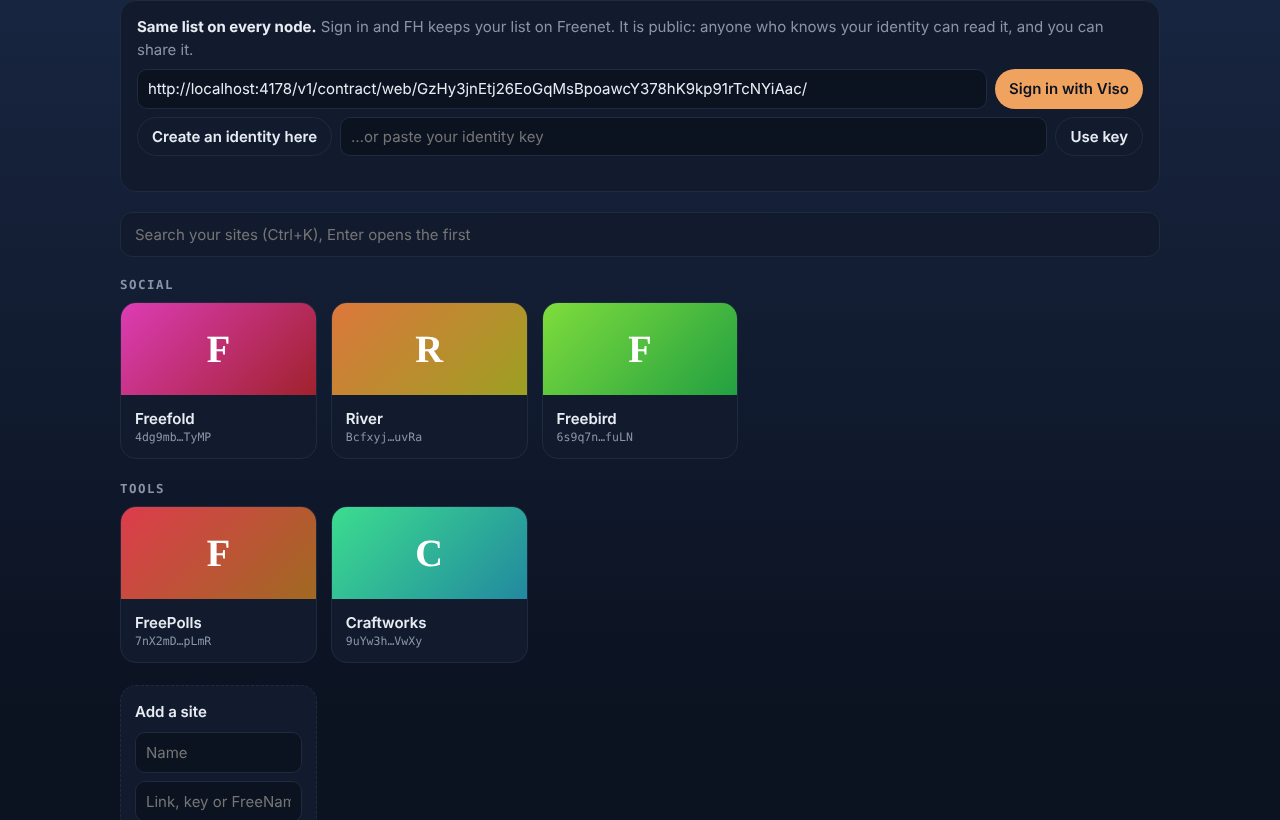
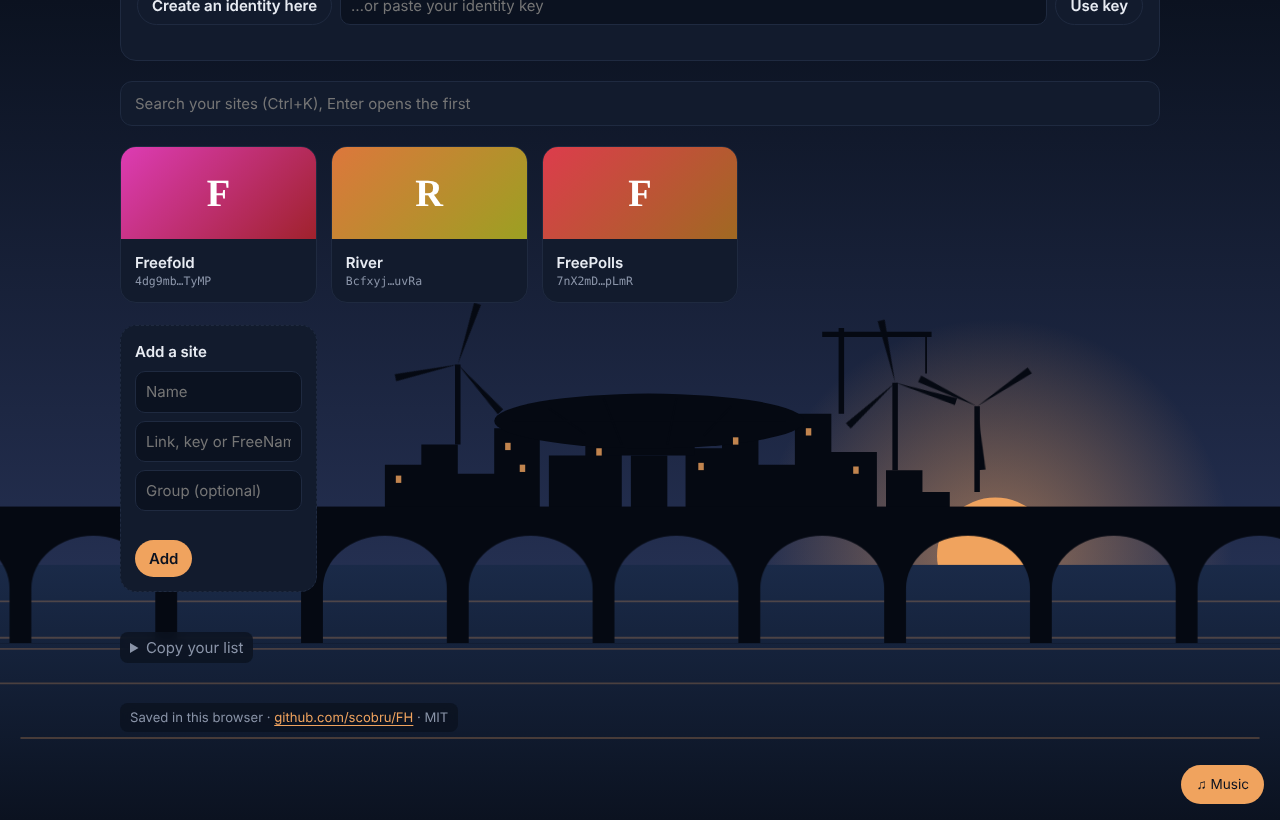
Add an original bridge-town scene and ambient music
Background: an SVG drawn for FH (railway bridge over the sea, a town of
recycled parts, a great solar panel, windmills that turn unless reduced
motion is set), themed for light and dark. Loose text over it gets a
frosted backing.
Music: an original ambient loop synthesized with WebAudio (arpeggio,
pad, bass, echo), off until the Music button is pressed. No artwork or
music from the game is included.

Claude-Session: https://claude.ai/code/session_01GeVad92M4SuANuLQjHu8xK

diff --git a/index.html b/index.html
@@ -6,7 +6,55 @@
   <title>FH</title>
 </head>
 <body>
+  <!-- An original scene in the spirit of the town on the bridge: a railway bridge across the sea, a town of
+       recycled parts on it, a great solar panel and windmills. Drawn for FH, not taken from the game. -->
+  <svg class="scene" viewBox="0 0 1600 900" preserveAspectRatio="xMidYMax slice" aria-hidden="true">
+    <defs>
+      <linearGradient id="sky" x1="0" y1="0" x2="0" y2="1"><stop class="sky1" offset="0" /><stop class="sky2" offset="1" /></linearGradient>
+      <linearGradient id="sea" x1="0" y1="0" x2="0" y2="1"><stop class="sea1" offset="0" /><stop class="sea2" offset="1" /></linearGradient>
+      <radialGradient id="glow"><stop class="sun" offset="0" stop-opacity=".55" /><stop class="sun" offset="1" stop-opacity="0" /></radialGradient>
+      <pattern id="arches" width="160" height="130" patternUnits="userSpaceOnUse" x="-40" y="576">
+        <path class="ink" d="M0 0H160V130H148V70A68 58 0 0 0 12 70V130H0Z" />
+      </pattern>
+      <g id="blades"><circle r="70" fill="none" /><path d="M0 0L-4-70L4-70Z" /><path d="M0 0L-4-70L4-70Z" transform="rotate(120)" /><path d="M0 0L-4-70L4-70Z" transform="rotate(240)" /></g>
+    </defs>
+    <rect width="1600" height="900" fill="url(#sky)" />
+    <circle cx="1190" cy="610" r="260" fill="url(#glow)" />
+    <circle class="sun" cx="1190" cy="610" r="64" />
+    <rect y="620" width="1600" height="280" fill="url(#sea)" />
+    <g class="waves"><path d="M0 660H1600M60 700H1540M0 750H1600M120 810H1480" /></g>
+
+    <!-- the town on the deck -->
+    <g class="ink">
+      <path d="M520 560V510H560V488H600V520H640V470H690V560ZM700 560V500H740V478H780V560Z" />
+      <path d="M850 560V492H890V466H930V510H970V454H1010V496H1060V560ZM1070 560V516H1110V540H1140V560Z" />
+      <path d="M790 560V500H830V560Z" />
+      <!-- the great solar panel on its drum -->
+      <path d="M760 500V470H860V500Z" />
+      <ellipse cx="810" cy="462" rx="170" ry="30" />
+      <path class="grid" d="M660 462H960M700 448L740 476M760 437L780 488M840 437L830 488M900 446L870 478" />
+      <!-- crane -->
+      <path d="M1018 454V360H1024V454ZM1000 364H1120V370H1000Z" /><path d="M1114 370V410" class="grid" />
+      <!-- windmill masts -->
+      <path d="M597 488V400H603V488ZM1077 516V420H1083V516ZM1167 540V446H1173V540Z" />
+      <!-- the deck, the rail, the arches into the sea -->
+      <rect x="-20" y="556" width="1640" height="22" />
+      <rect x="-20" y="576" width="1640" height="130" fill="url(#arches)" />
+    </g>
+    <g class="lit">
+      <rect x="532" y="522" width="6" height="8" /><rect x="652" y="486" width="6" height="8" /><rect x="668" y="510" width="6" height="8" />
+      <rect x="752" y="492" width="6" height="8" /><rect x="902" y="480" width="6" height="8" /><rect x="982" y="470" width="6" height="8" />
+      <rect x="1034" y="512" width="6" height="8" /><rect x="864" y="508" width="6" height="8" />
+    </g>
+    <g class="ink windmills">
+      <g transform="translate(600 400)"><g class="mill"><use href="#blades" /></g></g>
+      <g transform="translate(1080 420)"><g class="mill"><use href="#blades" /></g></g>
+      <g transform="translate(1170 446)"><g class="mill"><use href="#blades" /></g></g>
+    </g>
+    <path class="reflect" d="M-20 712H1620" />
+  </svg>
   <main id="home"></main>
+  <button id="music" type="button" aria-pressed="false" title="Original ambient music, made in your browser">&#9835; Music</button>
   <script type="module" src="./src/main.ts"></script>
 </body>
 </html>

diff --git a/src/style.css b/src/style.css
@@ -1,14 +1,14 @@
 :root {
   color-scheme: light dark;
   --bg: #f4f1ea; --fg: #1b1f27; --muted: #5d6573; --card: #fffdf8; --line: #e2dccf; --accent: #c2622d; --on-accent: #fff;
-  --sky: linear-gradient(180deg, #f9d9a8 0%, #f4f1ea 70%);
+  --sky1: #8db7dc; --sky2: #f6d6a8; --sea1: #5a8fb8; --sea2: #2c5577; --sun: #fbe3b0; --ink: #2d3a4d; --lit: #fff3c4;
   --serif: ui-serif, "Iowan Old Style", Georgia, serif;
   --mono: ui-monospace, "SF Mono", Menlo, monospace;
 }
 @media (prefers-color-scheme: dark) {
   :root {
     --bg: #0b1220; --fg: #e8ecf3; --muted: #8a94a8; --card: #121b2d; --line: #1f2a40; --accent: #f0a35e; --on-accent: #0b1220;
-    --sky: linear-gradient(180deg, #1c2b4a 0%, #0b1220 70%);
+    --sky1: #0b1220; --sky2: #2f3c66; --sea1: #1a2a48; --sea2: #0b1220; --sun: #f0a35e; --ink: #050912; --lit: #f0a35e;
   }
 }
 * { box-sizing: border-box; }
@@ -20,7 +20,28 @@ button { cursor: pointer; background: none; border: 0; padding: 0; }
 .muted { color: var(--muted); }
 
 /* home */
-#home { min-height: 100vh; background: var(--sky) no-repeat; padding: 0 16px 48px; }
+#home { position: relative; min-height: 100vh; padding: 0 16px 88px; }
+/* loose text over the scene gets a frosted backing so it stays readable */
+#home > footer, #home > details, #home > h2, #home > p, .group > h2, #list > p {
+  width: fit-content; margin-left: max(0px, calc((100% - 1040px) / 2)); padding: 4px 10px; border-radius: 8px; background: color-mix(in srgb, var(--bg) 82%, transparent); backdrop-filter: blur(6px);
+}
+#home > details[open] { width: auto; }
+
+/* the scene behind everything (index.html) */
+.scene { position: fixed; inset: 0; width: 100%; height: 100%; z-index: 0; pointer-events: none; }
+.sky1 { stop-color: var(--sky1); } .sky2 { stop-color: var(--sky2); } .sea1 { stop-color: var(--sea1); } .sea2 { stop-color: var(--sea2); }
+.scene .sun { fill: var(--sun); stop-color: var(--sun); }
+.scene .ink { fill: var(--ink); }
+.scene .grid, .scene .waves, .scene .reflect { fill: none; stroke: var(--ink); stroke-width: 2; }
+.scene .waves, .scene .reflect { stroke: var(--sun); opacity: .25; }
+.scene .lit { fill: var(--lit); opacity: .8; }
+.mill { transform-box: fill-box; transform-origin: center; animation: spin 14s linear infinite; }
+.windmills > :nth-child(2) .mill { animation-duration: 18s; } .windmills > :nth-child(3) .mill { animation-duration: 11s; }
+@keyframes spin { to { transform: rotate(360deg); } }
+@media (prefers-reduced-motion: reduce) { .mill { animation: none; } }
+
+#music { position: fixed; right: 16px; bottom: 16px; z-index: 2; padding: 8px 14px; border-radius: 999px; background: var(--card); color: var(--fg); border: 1px solid var(--line); font-size: .85rem; }
+#music[aria-pressed=true] { background: var(--accent); color: var(--on-accent); border-color: transparent; }
 #home > * { max-width: 1040px; margin-left: auto; margin-right: auto; }
 header { padding: 56px 0 32px; }
 .kicker { margin: 0; font: 600 .72rem var(--mono); letter-spacing: .14em; text-transform: uppercase; color: var(--accent); }

diff --git a/src/music.ts b/src/music.ts
@@ -1,0 +1,55 @@
+// Original ambient music, made live with WebAudio (no file): a slow arpeggio over four soft chords, a pad and an echo.
+// Written for FH; not a transcription of any existing piece.
+const CHORDS = [ // MIDI notes: Dmaj9, Gmaj7(#11), Bm7, Asus2
+  [50, 57, 61, 64, 66], [43, 55, 59, 61, 66], [47, 54, 57, 62, 66], [45, 52, 57, 59, 64],
+];
+const BEAT = 60 / 66 / 2; // eighth notes at 66 bpm
+const hz = (n: number) => 440 * 2 ** ((n - 69) / 12);
+
+let ctx: AudioContext | null = null;
+let timer: number | undefined;
+
+function voice(c: AudioContext, out: AudioNode, note: number, at: number, len: number, gain: number, type: OscillatorType) {
+  const o = c.createOscillator(), g = c.createGain();
+  o.type = type;
+  o.frequency.value = hz(note);
+  g.gain.setValueAtTime(0, at);
+  g.gain.linearRampToValueAtTime(gain, at + Math.min(0.04, len / 4) + (type === "sine" ? 0 : len / 3));
+  g.gain.exponentialRampToValueAtTime(0.0001, at + len);
+  o.connect(g).connect(out);
+  o.start(at);
+  o.stop(at + len + 0.05);
+}
+
+export function startMusic() {
+  if (ctx) return;
+  const c = (ctx = new AudioContext());
+  const master = c.createGain(), echo = c.createDelay(), back = c.createGain(), soft = c.createBiquadFilter();
+  master.gain.value = 0.18;
+  soft.type = "lowpass"; soft.frequency.value = 2200;
+  echo.delayTime.value = BEAT * 3; back.gain.value = 0.35;
+  soft.connect(master).connect(c.destination);
+  soft.connect(echo).connect(back).connect(echo); // feedback echo
+  back.connect(master);
+  let step = 0, next = c.currentTime + 0.1;
+  const UP_DOWN = [0, 1, 2, 3, 4, 3, 2, 1];
+  // schedule a little ahead of time so timers that fire late do not stutter
+  const tick = () => {
+    while (next < c.currentTime + 0.5) {
+      const chord = CHORDS[Math.floor(step / 16) % CHORDS.length], i = step % 16;
+      if (i === 0) chord.slice(1).forEach((n) => voice(c, soft, n - 12, next, BEAT * 16, 0.05, "triangle")); // the pad
+      if (i % 8 === 0) voice(c, soft, chord[0] - 12, next, BEAT * 8, 0.22, "sine"); // the bass
+      if (i < 14) voice(c, soft, chord[UP_DOWN[i % 8]] + 12, next, BEAT * 3, 0.1, "sine"); // the arpeggio, resting at the end of each chord
+      step++;
+      next += BEAT;
+    }
+  };
+  tick();
+  timer = window.setInterval(tick, 100);
+}
+
+export function stopMusic() {
+  clearInterval(timer);
+  void ctx?.close();
+  ctx = null;
+}

diff --git a/src/main.ts b/src/main.ts
@@ -8,6 +8,7 @@ import {
 import { parseName } from "./names";
 import { blockSites, listSite, loadDirectory, resolveName } from "./net";
 import { rows } from "./directory";
+import { startMusic, stopMusic } from "./music";
 
 const app = document.getElementById("home")!;
 const esc = (s: string) => s.replace(/[&<>"']/g, (c) => `&#${c.charCodeAt(0)};`);
@@ -378,6 +379,14 @@ addEventListener("keydown", (ev) => {
     q.focus();
   }
 });
+
+// music is off until asked: browsers only start audio after a click anyway
+const music = document.getElementById("music")!;
+music.onclick = () => {
+  const on = music.getAttribute("aria-pressed") !== "true";
+  music.setAttribute("aria-pressed", String(on));
+  if (on) startMusic(); else stopMusic();
+};
 
 app.innerHTML = `<p class="muted loading">Loading your sites…</p>`;
 const query = new URLSearchParams(location.search);

diff --git a/README.md b/README.md
@@ -15,6 +15,7 @@ Named after the town on the bridge in Final Fantasy VIII: built from recycled pa
 - **Share your list.** Signed in, you get a link `#/u/<identity>`: whoever opens it sees your tiles and can add them, one by one or all at once.
 - **App directory** (`#/apps`). A public list of Freenet apps that anyone signed in can add to, with a name and a one-line description. Add an app to your tiles with one click.
 - **Copy your list.** Export the JSON, or import one.
+- **The town on the bridge.** An original background scene (a railway bridge over the sea, a town of recycled parts, a great solar panel, turning windmills; light and dark versions) and an original calm ambient piece played live by the browser (`♪ Music`, off until you press it). Both were made for FH: no artwork or music from the game is included.
 
 ## How it works
 
